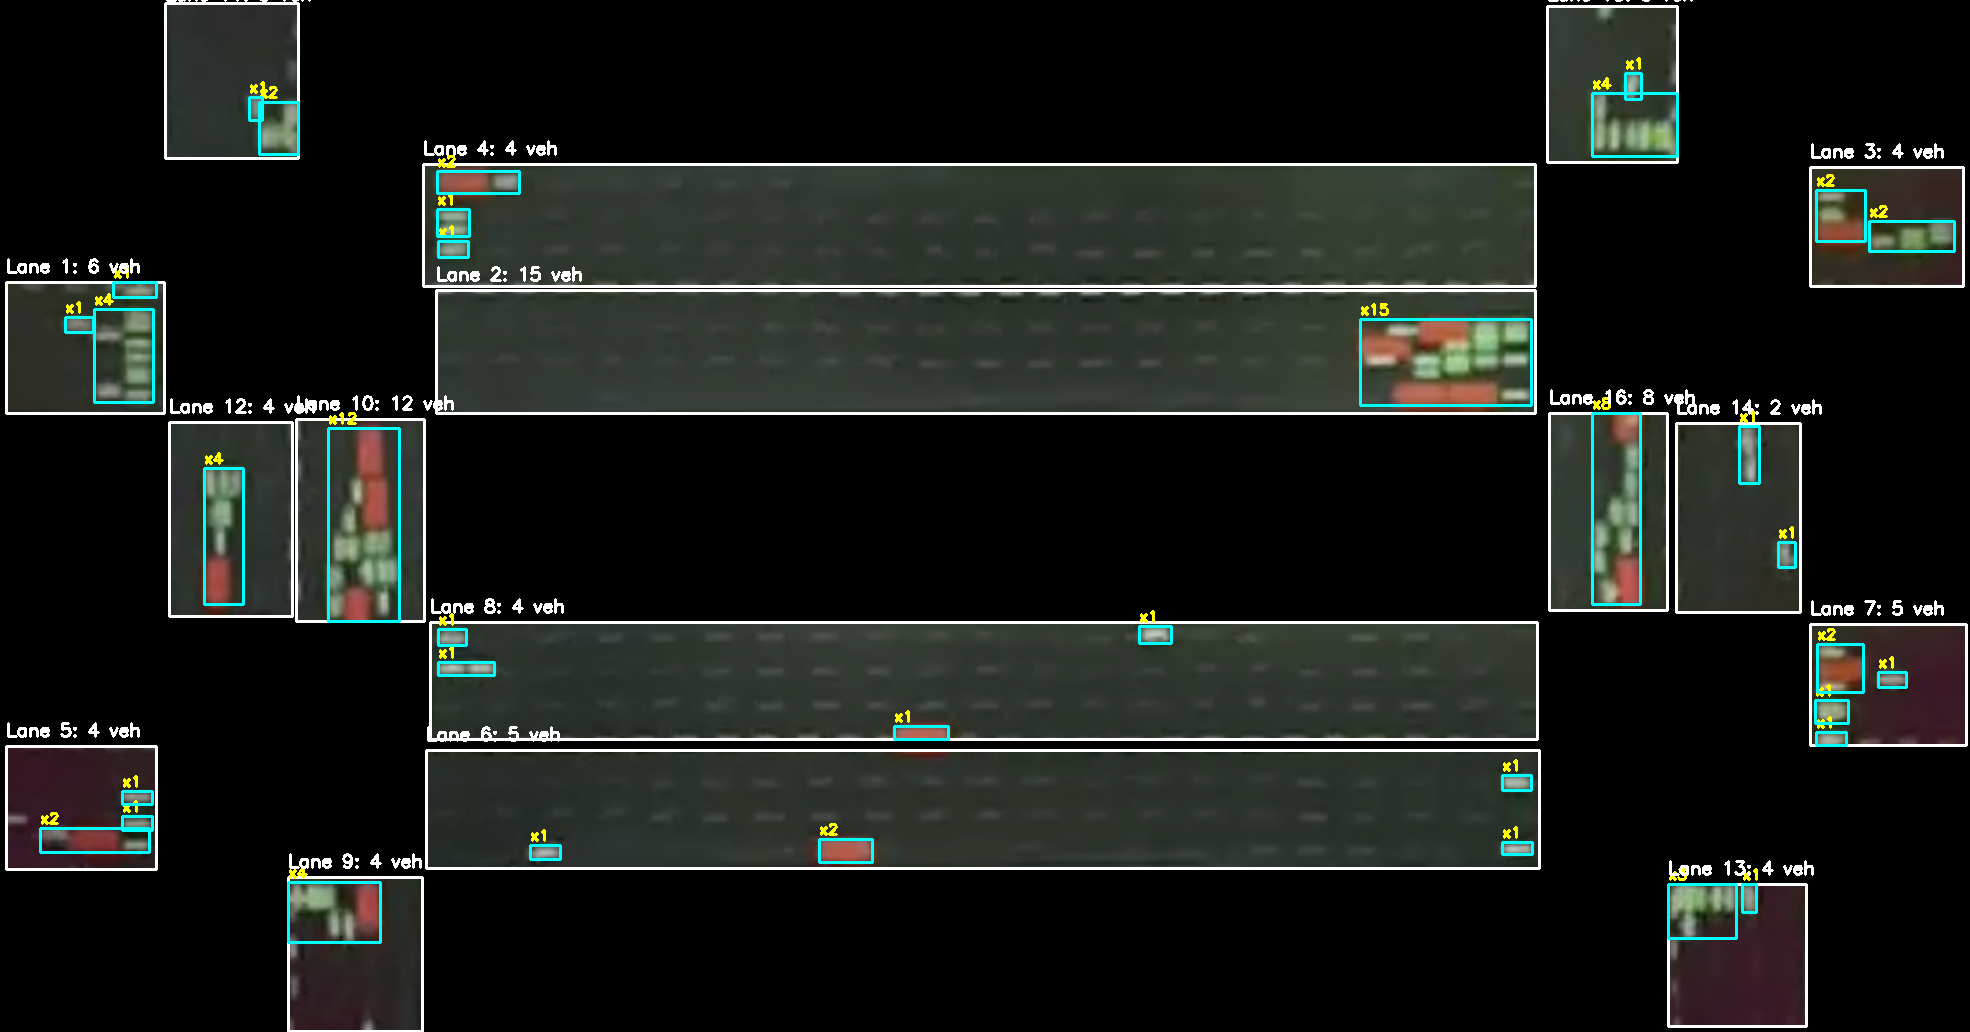
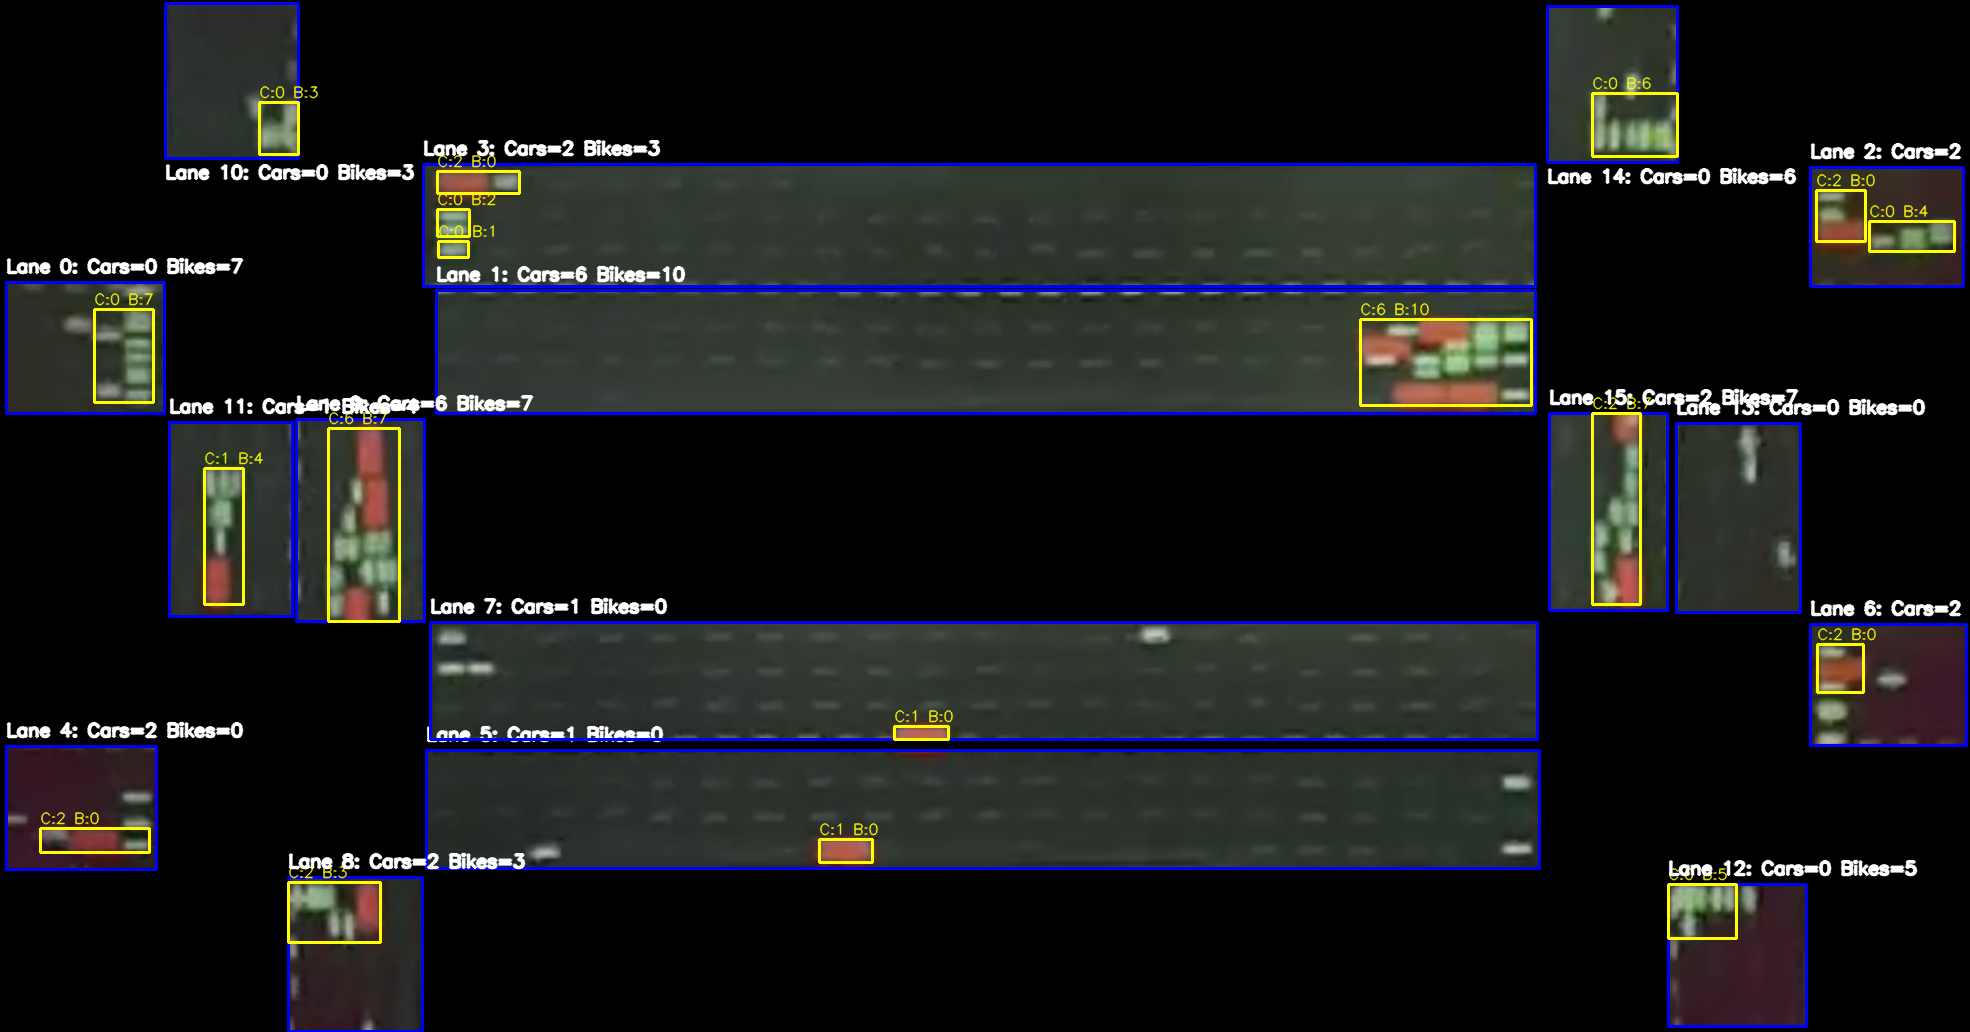
count pixel color to clasify car and bike

diff --git a/phase4_vehicle_counting.py b/phase4_vehicle_counting.py
@@ -1,103 +1,141 @@
 import cv2
+import numpy as np
 import json
 import os
-import numpy as np
 
 def main():
-    mask_path = 'sample_img/phase3/phase3_grayscale_mask.png'
-    vis_path = 'sample_img/phase2/phase2_masked_lanes.png'
-    lane_rois_path = 'lane_rois.json'
-    vehicle_params_path = 'vehicle_params.json'
-    output_dir = 'sample_img/phase4'
-    output_path = os.path.join(output_dir, 'phase4_counting_result.png')
+    # File paths
+    MASK_PATH = 'sample_img/phase3/phase3_grayscale_mask.png'
+    BGR_PATH = 'sample_img/phase2/phase2_masked_lanes.png'
+    ROIS_PATH = 'lane_rois.json'
+    PARAMS_PATH = 'vehicle_params.json'
+    OUT_DIR = 'sample_img/phase4'
+    OUT_PATH = os.path.join(OUT_DIR, 'phase4_counting_result.png')
 
-    # 1. Load images
-    if not os.path.exists(mask_path):
-        print(f"Error: Mask image not found at {mask_path}")
+    # Create output directory if it doesn't exist
+    if not os.path.exists(OUT_DIR):
+        os.makedirs(OUT_DIR)
+
+    # Load images
+    mask = cv2.imread(MASK_PATH, cv2.IMREAD_GRAYSCALE)
+    if mask is None:
+        print(f"Error: Could not load mask from {MASK_PATH}")
         return
-    if not os.path.exists(vis_path):
-        print(f"Error: Visualization image not found at {vis_path}")
+
+    bgr_img = cv2.imread(BGR_PATH)
+    if bgr_img is None:
+        print(f"Error: Could not load BGR image from {BGR_PATH}")
         return
 
-    mask = cv2.imread(mask_path, cv2.IMREAD_GRAYSCALE)
-    vis_img = cv2.imread(vis_path, cv2.IMREAD_COLOR)
+    output_img = bgr_img.copy()
 
-    # 2. Read lane ROIs
-    if not os.path.exists(lane_rois_path):
-        print(f"Error: Lane ROIs file not found at {lane_rois_path}")
+    # Load parameters
+    try:
+        with open(ROIS_PATH, 'r') as f:
+            rois = json.load(f)
+    except Exception as e:
+        print(f"Error loading {ROIS_PATH}: {e}")
         return
-    with open(lane_rois_path, 'r') as f:
-        lane_rois = json.load(f)
 
-    # 3. Read vehicle params
-    if not os.path.exists(vehicle_params_path):
-        print(f"Error: Vehicle params file not found at {vehicle_params_path}")
+    try:
+        with open(PARAMS_PATH, 'r') as f:
+            params = json.load(f)
+    except Exception as e:
+        print(f"Error loading {PARAMS_PATH}: {e}")
         return
-    with open(vehicle_params_path, 'r') as f:
-        params = json.load(f)
-    
-    min_area = params['MIN_VEHICLE_AREA']
-    avg_area = params['AVERAGE_VEHICLE_AREA']
 
-    print(f"Loaded params: MIN_VEHICLE_AREA={min_area}, AVERAGE_VEHICLE_AREA={avg_area}")
+    MIN_VEHICLE_AREA = params.get("MIN_VEHICLE_AREA", 200)
+    AVERAGE_CAR_AREA = params.get("AVERAGE_CAR_AREA", 895)
+    AVERAGE_BIKE_AREA = params.get("AVERAGE_BIKE_AREA", 400)
 
-    # 4. Initialize counters
-    total_vehicles = 0
-    lane_counts = []
+    print("--- Phase 4: Vehicle Counting ---")
+    print(f"Parameters: MIN_VEHICLE_AREA={MIN_VEHICLE_AREA}, CAR_AREA={AVERAGE_CAR_AREA}, BIKE_AREA={AVERAGE_BIKE_AREA}")
 
-    # 5. Iterate through each ROI
-    for i, roi in enumerate(lane_rois):
+    total_cars = 0
+    total_bikes = 0
+
+    # Process each ROI (lane)
+    for i, roi in enumerate(rois):
         x, y, w, h = roi
-        lane_vehicle_count = 0
-
-        # Draw ROI bounding box (White)
-        cv2.rectangle(vis_img, (x, y), (x + w, y + h), (255, 255, 255), 2)
-
-        # Crop the mask
-        cropped_mask = mask[y:y+h, x:x+w]
-
+        
+        roi_mask = mask[y:y+h, x:x+w]
+        roi_bgr = bgr_img[y:y+h, x:x+w]
+        
         # Find contours
-        contours, _ = cv2.findContours(cropped_mask, cv2.RETR_EXTERNAL, cv2.CHAIN_APPROX_SIMPLE)
-
-        for contour in contours:
-            area = cv2.contourArea(contour)
-            
-            # Ignore noise
-            if area < min_area:
+        contours, _ = cv2.findContours(roi_mask, cv2.RETR_EXTERNAL, cv2.CHAIN_APPROX_SIMPLE)
+        
+        lane_cars = 0
+        lane_bikes = 0
+        
+        # Draw lane boundaries (Blue rectangle)
+        cv2.rectangle(output_img, (x, y), (x + w, y + h), (255, 0, 0), 2)
+        
+        for cnt in contours:
+            area = cv2.contourArea(cnt)
+            if area < MIN_VEHICLE_AREA:
                 continue
+                
+            # Create a blank single-contour mask
+            single_mask = np.zeros(roi_mask.shape, dtype=np.uint8)
+            cv2.drawContours(single_mask, [cnt], -1, 255, -1)
             
-            # Calculate estimated vehicles
-            estimated_vehicles = max(1, int(round(area / avg_area)))
-            lane_vehicle_count += estimated_vehicles
+            # Extract pixels using int16 to prevent underflow
+            b = roi_bgr[:, :, 0].astype(np.int16)
+            g = roi_bgr[:, :, 1].astype(np.int16)
+            r = roi_bgr[:, :, 2].astype(np.int16)
+            
+            in_mask = single_mask > 0
+            
+            # Count Red pixels: R > G + 20 and R > B + 20
+            red_cond = (r > g + 20) & (r > b + 20) & in_mask
+            red_px = np.sum(red_cond)
+            
+            # Count Green pixels: G > R + 20 and G > B + 20
+            green_cond = (g > r + 20) & (g > b + 20) & in_mask
+            green_px = np.sum(green_cond)
+            
+            total_color_px = red_px + green_px
+            if total_color_px == 0:
+                continue
+                
+            # Calculate proportions
+            r_ratio = red_px / total_color_px
+            g_ratio = green_px / total_color_px
+            
+            # Estimate counts based on area and proportions
+            cars = max(0, round((area * r_ratio) / AVERAGE_CAR_AREA))
+            bikes = max(0, round((area * g_ratio) / AVERAGE_BIKE_AREA))
+            
+            lane_cars += cars
+            lane_bikes += bikes
+            
+            # Draw bounding box for the contour
+            cx, cy, cw, ch = cv2.boundingRect(cnt)
+            global_x = x + cx
+            global_y = y + cy
+            
+            cv2.rectangle(output_img, (global_x, global_y), (global_x + cw, global_y + ch), (0, 255, 255), 2)
+            
+            # Add text label for specific counts
+            label = f"C:{cars} B:{bikes}"
+            text_y = global_y - 5 if global_y - 5 > 10 else global_y + 15
+            cv2.putText(output_img, label, (global_x, text_y), cv2.FONT_HERSHEY_SIMPLEX, 0.5, (0, 255, 255), 1, cv2.LINE_AA)
+            
+        # Draw text label above the lane
+        lane_label = f"Lane {i}: Cars={lane_cars} Bikes={lane_bikes}"
+        lane_text_y = y - 10 if y - 10 > 20 else y + h + 20
+        cv2.putText(output_img, lane_label, (x, lane_text_y), cv2.FONT_HERSHEY_SIMPLEX, 0.6, (255, 255, 255), 2, cv2.LINE_AA)
+        
+        # Accumulate and print details
+        print(f"Lane {i}: Cars = {lane_cars}, Bikes = {lane_bikes}")
+        total_cars += lane_cars
+        total_bikes += lane_bikes
 
-            # 6. Draw contour bounding box and label
-            cx, cy, cw, ch = cv2.boundingRect(contour)
-            abs_x = x + cx
-            abs_y = y + cy
+    print("---------------------------------")
+    print(f"Total Counts - Cars: {total_cars}, Bikes: {total_bikes}")
+    
+    cv2.imwrite(OUT_PATH, output_img)
+    print(f"Saved result to: {OUT_PATH}")
 
-            # Draw bounding box around contour (Cyan)
-            cv2.rectangle(vis_img, (abs_x, abs_y), (abs_x + cw, abs_y + ch), (255, 255, 0), 2)
-
-            # Draw text label (estimated vehicles)
-            cv2.putText(vis_img, f"x{estimated_vehicles}", (abs_x, max(abs_y - 5, 0)),
-                        cv2.FONT_HERSHEY_SIMPLEX, 0.5, (0, 255, 255), 2)
-
-        # Add lane total to overall total
-        total_vehicles += lane_vehicle_count
-        lane_counts.append(lane_vehicle_count)
-
-        # Draw lane total at the top of the lane ROI
-        cv2.putText(vis_img, f"Lane {i+1}: {lane_vehicle_count} veh", (x, max(y - 10, 0)),
-                    cv2.FONT_HERSHEY_SIMPLEX, 0.6, (255, 255, 255), 2)
-
-        print(f"Lane {i+1} count: {lane_vehicle_count}")
-
-    print(f"\nTotal vehicles across all lanes: {total_vehicles}")
-
-    # 7. Create output dir and save
-    os.makedirs(output_dir, exist_ok=True)
-    cv2.imwrite(output_path, vis_img)
-    print(f"Saved visualization result to {output_path}")
-
-if __name__ == '__main__':
+if __name__ == "__main__":
     main()
